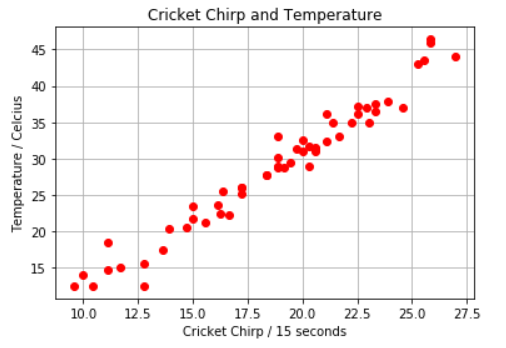
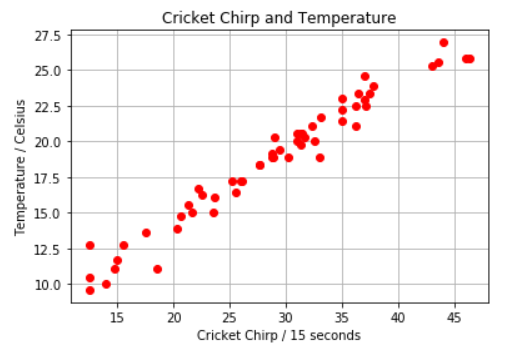
GitBook: [master] one page and 2 assets modified

diff --git a/what-is-ml/mi-math2.md b/what-is-ml/mi-math2.md
@@ -23,12 +23,19 @@
 | :--- | :--- | :--- |
 | 21-Aug | 44 | 26.94 |
 | 21-Aug | 46.4 | 25.83 |
+| 24-Aug | 35 | 23.05 |
+
+{% hint style="info" %}
+পুরো ডেটাসেট পাওয়া যাবে পাশের এই লিংকে। [http://bit.ly/chirps-db](http://bit.ly/chirps-db)
+{% endhint %}
+
+{% file src="../.gitbook/assets/chirps.csv" caption="" %}
 
 “আয় কাগজে একটু প্লটিং করি।” উনি পেন্সিল দিয়ে ইশারা করলেন। ঝিঁঝিঁ পোকার ডাক আর তাপমাত্রার একটা 'কো-রিলেশন' বের করতে পারলেই আমাদের কাজ শেষ। 
 
 রকিব আর সামলাতে পারল না তাকে। বলল, “প্লট করলে কি পাবো আমরা?” ফুঁপিমা মা হাসলেন। বললেন, “প্যাটার্ন। আমরা একটা প্যাটার্ন পাব।” খাতা থেকে ডাটাগুলো নিয়ে নিচের মতো করে একটা ছবি আঁকলেন উনি। একপাশে ১৫ সেকেন্ডের ঝিঁঝি পোকার ডাক, আরেকপাশে সেই সময়ের তাপমাত্রা। নিচের ছবির মতো “এক্স এক্সিসে” ডাকের সংখ্যা - “ওয়াই এক্সিস” এ তাপমাত্রা প্লট করেছেন উনি গ্রিড ধরে ধরে। ঝিঁঝি পোকার ডাকের সংখ্যার সাথে ওই তাপমাত্রার একেকটা ডট। শুরুতে ৪৪টা ঝিঁঝি পোকার ডাক ২৬.৯৬ ডিগ্রী তাপমাত্রায় যেখানে মিলেছে সেখানে একটা ডট। এভাবে ৫৫টা ডট দেয়া হলো ওই কাগজে। 
 
-![&#x99D;&#x9BF;&#x981;&#x99D;&#x9BF;&#x981; &#x9AA;&#x9CB;&#x995;&#x9BE; &#x9A5;&#x9BE;&#x9B0;&#x9CD;&#x9AE;&#x9CB;&#x9AE;&#x9BF;&#x99F;&#x9BE;&#x9B0;](../.gitbook/assets/1.png)
+![&#x99D;&#x9BF;&#x981;&#x99D;&#x9BF; &#x9AA;&#x9CB;&#x995;&#x9BE; &#x9A5;&#x9BE;&#x9B0;&#x9CD;&#x9AE;&#x9CB;&#x9AE;&#x9BF;&#x99F;&#x9BE;&#x9B0;](../.gitbook/assets/1.png)
 
 “এতো অসম্ভব ব্যাপার। মোটামুটি একটা লাইন হয়ে গেছি দেখছি।” অবাক হয়ে বললো ছোট্ট রকিব।
 
